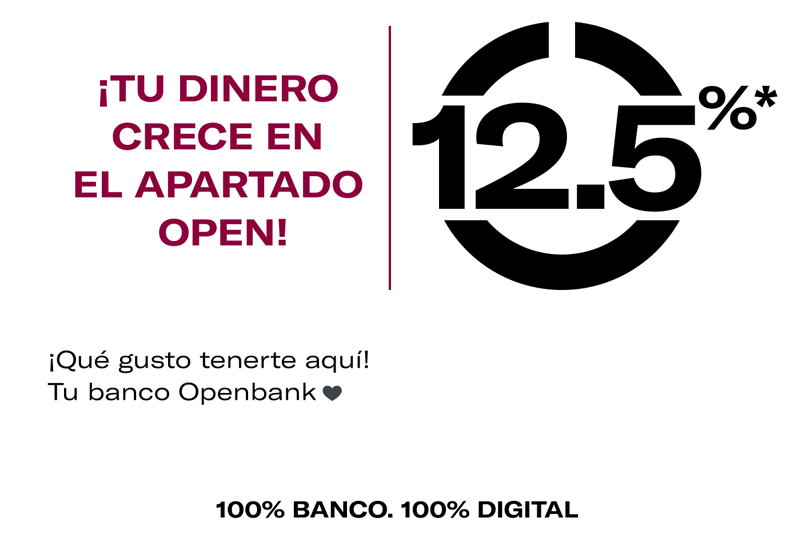
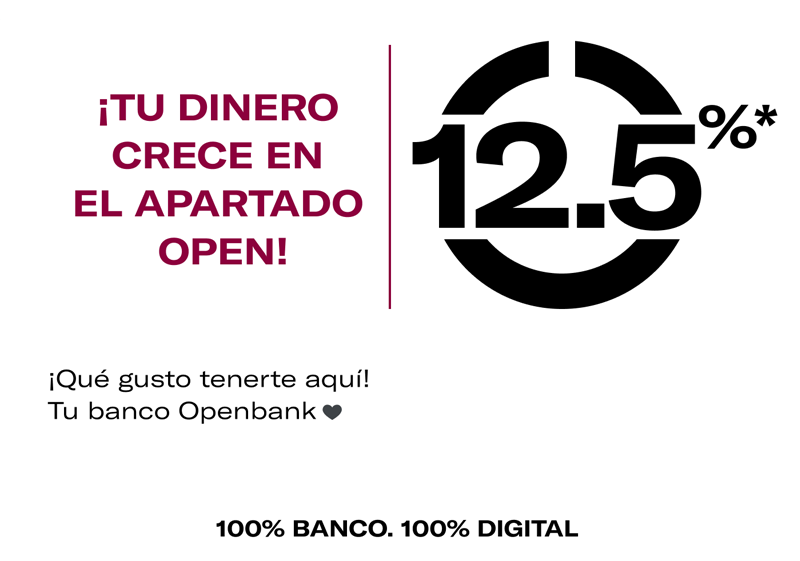
x

diff --git a/OB_MX_09B.html b/OB_MX_09B.html
@@ -497,7 +497,7 @@
               </td>
             </tr>
             <tr>
-              <td style="-webkit-text-size-adjust:100%;-ms-text-size-adjust:100%;mso-table-lspace:0pt;mso-table-rspace:0pt;mso-default-height:100%;mso-default-width:100%;mso-space-above:no;mso-space-below:no;"><img src="https://openbank-newsletter-q2k5.vercel.app/img/ob09/ob9-ticket.png" width="100%" alt="" style="display:block;margin-top:0; margin-bottom:0;"></td>
+              <td style="-webkit-text-size-adjust:100%;-ms-text-size-adjust:100%;mso-table-lspace:0pt;mso-table-rspace:0pt;mso-default-height:100%;mso-default-width:100%;mso-space-above:no;mso-space-below:no;"><img src="https://openbank-newsletter-q2k5.vercel.app/img/ob09/ob9-ticket-b.png" width="100%" alt="" style="display:block;margin-top:0; margin-bottom:0;"></td>
             </tr>
         </table>
         <table border="0" cellpadding="0" cellspacing="0" width="100%" class="templateColumnsFooter darkmode" bgcolor="#000000"
